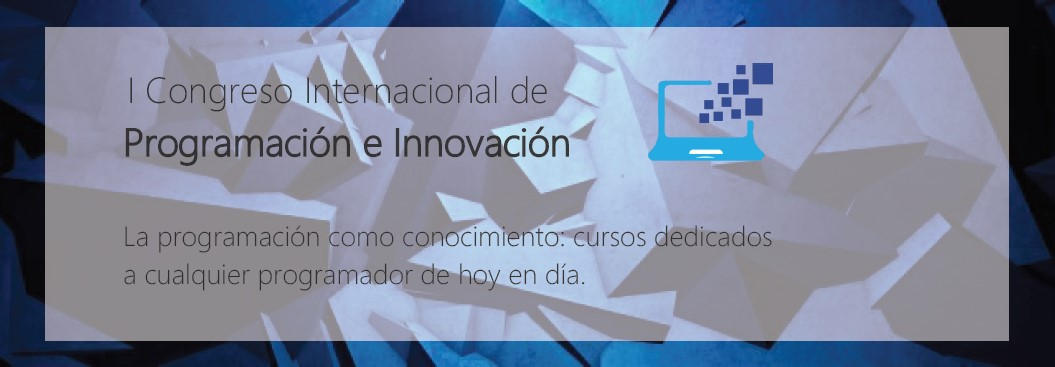
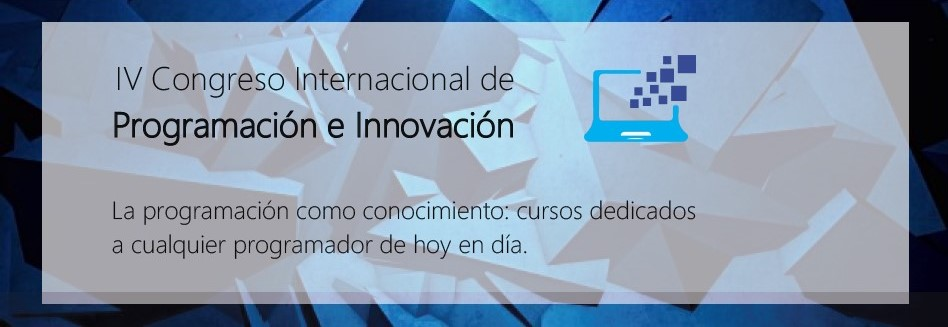
m

diff --git a/Inicio.html b/Inicio.html
@@ -64,6 +64,26 @@
 	div p{
 		color:#283544;
 	}
+
+	#title1 {
+        display:inline;
+    }
+
+    #title2 {
+        display:none;
+    }
+    @media (max-width: 768px) {
+	    /* For mobile phones: */
+	    
+	    #title1 {
+        	display:none !important;
+    	}
+
+    	#title2 {
+        	display:inline;
+    	}
+
+	}
   </style>
 </head>
 <body id="myPage">
@@ -84,9 +104,9 @@
 	    <div class="collapse navbar-collapse" id="myNavbar">
 	      <ul class="nav navbar-nav navbar-right">
 	        <li><a href="#">Inicio</a></li>
-	        <li><a href="./inscripcion.html">Inscripción</a></li>
+	        <li><a href="./Inscripcion.html">Inscripción</a></li>
 	        <li><a href="./Programa.html">Programa</a></li>
-	        <li><a href="./ponentes.html">Ponentes</a></li>
+	        <li><a href="./Ponentes.html">Ponentes</a></li>
 	        <li><a href="./Localizacion.html">Localización</a></li>
 	        <li><a href="#Contact">Contacto</a></li>
 	      </ul>
@@ -95,8 +115,9 @@
 	</nav>
 	<div class="container-fluid bg-1 text-center" >
 		<div class="row">
-			<div class="col-sm-10">
-				<img src="./log-img/congreso.jpg" class="img-responsive img-rounded" style="display:inline" alt="congreso">
+			<div class="col-sm-10 ">
+				<img  id="title1" src="./log-img/congreso.jpg" class="img-responsive img-rounded"  alt="congreso">
+				<img  id="title2" src="./log-img/congreso-media.jpg" class="img-responsive img-rounded"  alt="congreso">
 				<p class="linea-parrafo" >La industria de la tecnología es un medio en el que se producen cambios 
 				frecuentemente, por ello es necesario estar al día de la actualidad tecnológica. Por este motivo
 			 	hemos decidido llevar acabo este IV Congreso Internacional de Programación e Innovación.</p><br>

diff --git a/Localizacion.html b/Localizacion.html
@@ -62,11 +62,11 @@
 	    <div class="collapse navbar-collapse" id="myNavbar">
 	      <ul class="nav navbar-nav navbar-right">
 	        <li><a href="./Inicio.html">Inicio</a></li>
-	        <li><a href="./inscripcion.html">Inscripción</a></li>
+	        <li><a href="./Inscripcion.html">Inscripción</a></li>
 	        <li><a href="./Programa.html">Programa</a></li>
-	        <li><a href="./ponentes.html">Ponentes</a></li>
+	        <li><a href="./Ponentes.html">Ponentes</a></li>
 	        <li><a href="./Localizacion.html">Localización</a></li>
-	        <li><a href="./Inicio.html">Contacto</a></li>
+	        
 	      </ul>
 	    </div>
 	  </div>
@@ -75,7 +75,7 @@
 	<div class="container-fluid bg-1 text-center">
 		<div class="row">
 			<div class="col-sm-6 ">
-				<div class="panel panel-default" style ="background-color: #213b5b;border:0px;">
+				<div class="panel panel-default" style ="background-color: #344a66;border:0px;">
 					<div class="panel-body" >
 						<h2 >Sede del Congreso 2019</h2><br>
 					
@@ -88,7 +88,7 @@
 						</div>
 					</div>
 				</div>
-				<div class="panel panel-default" style ="background-color: #213b5b;border:0px;">
+				<div class="panel panel-default" style ="background-color: #344a66;border:0px;">
 						<div class="panel-body descripcion-map text-center" >
 							<h2>Hoteles recomendados</h2><br>
 
@@ -145,7 +145,7 @@
 						</div>
 					</div>
 				</div>
-				<div class="panel panel-default" style ="background-color: #213b5b;border:0px;">
+				<div class="panel panel-default" style ="background-color: #344a66;border:0px;">
 						<div class="panel-body descripcion-map text-center" >
 						<h2>Transporte Disponible</h2><br>
 						<div class = "row">

diff --git a/ponentes.html b/ponentes.html
@@ -29,11 +29,11 @@
       <div class="collapse navbar-collapse" id="myNavbar">
         <ul class="nav navbar-nav navbar-right">
           <li><a href="./Inicio.html">Inicio</a></li>
-          <li><a href="./inscripcion.html">Inscripción</a></li>
+          <li><a href="./Inscripcion.html">Inscripción</a></li>
           <li><a href="./Programa.html">Programa</a></li>
-          <li><a href="./ponentes.html">Ponentes</a></li>
+          <li><a href="./Ponentes.html">Ponentes</a></li>
           <li><a href="./Localizacion.html">Localización</a></li>
-          <li><a href="./Inicio.html">Contacto</a></li>
+          
         </ul>
       </div>
     </div>

diff --git a/Programa.html b/Programa.html
@@ -29,11 +29,11 @@
 	    <div class="collapse navbar-collapse" id="myNavbar">
 	      <ul class="nav navbar-nav navbar-right">
 	        <li><a href="./Inicio.html">Inicio</a></li>
-	        <li><a href="./inscripcion.html">Inscripción</a></li>
+	        <li><a href="./Inscripcion.html">Inscripción</a></li>
 	        <li><a href="./Programa.html">Programa</a></li>
-	        <li><a href="./ponentes.html">Ponentes</a></li>
+	        <li><a href="./Ponentes.html">Ponentes</a></li>
 	        <li><a href="./Localizacion.html">Localización</a></li>
-	        <li><a href="./Inicio.html#Contact">Contacto</a></li>
+	        
 	      </ul>
 	    </div>
 	  </div>

diff --git a/inscripcion.html b/inscripcion.html
@@ -37,9 +37,9 @@
           <li><a href="./Inicio.html">Inicio</a></li>
           <li><a href="#">Inscripción</a></li>
           <li><a href="./Programa.html">Programa</a></li>
-          <li><a href="./ponentes.html">Ponentes</a></li>
+          <li><a href="./Ponentes.html">Ponentes</a></li>
           <li><a href="./Localizacion.html">Localización</a></li>
-          <li><a href="./Inicio.html">Contacto</a></li>
+          
         </ul>
       </div>
     </div>
